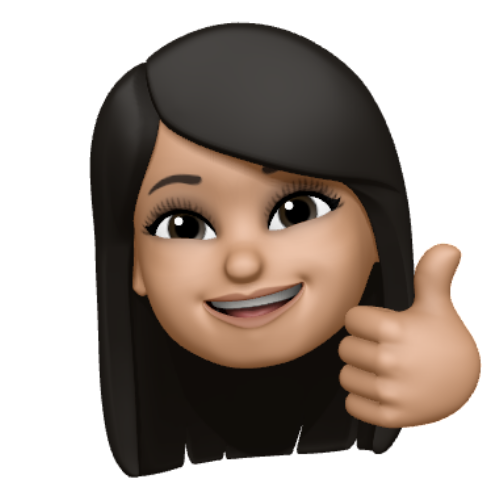
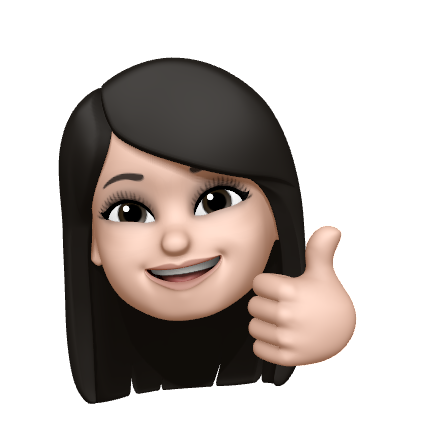
updated pics + buttons + scroll delay

diff --git a/index.html b/index.html
@@ -316,14 +316,16 @@
 
             <!--==================== OUR NEWSLETTER ====================-->
             <section class="section newsletter">
-                <div class="newsletter__container container">
-                    <h2 class="section__title">JOIN OUR TELEGRAM</h2>
-                    <p class="newsletter__description">
+                <div class="about__container container grid">
+                  <div class="about__data">
+                    <h2 class="section__title about__title">JOIN OUR TELEGRAM</h2>
+                    <p class="about__description">
                         Subscribe to our Telegram channel and don't miss any news or reward opportunities
                     </p>
-                        <button onclick="location.href = 'https://t.me/cryptolingodao';" class="button">
+                        <a onclick="location.href = 'https://t.me/cryptolingodao';" class="button">
                             Join Telegram
-                        </button>
+                        </a>
+                  </div>
                 </div>
             </section>
         </main>

diff --git a/js/main.js b/js/main.js
@@ -39,7 +39,7 @@ let homeSwiper = new Swiper(".home-swiper", {
         clickable: true,
       },
         autoplay: {
-    delay: 3333,
+    delay: 9000,
   },
 })
 
@@ -94,8 +94,8 @@ window.addEventListener('scroll', scrollUp)
 const sr = ScrollReveal({
     origin: 'top',
     distance: '60px',
-    duration: 2500,
-    delay: 400,
+    duration: 555,
+    delay: 333,
     // reset: true
 })
 
